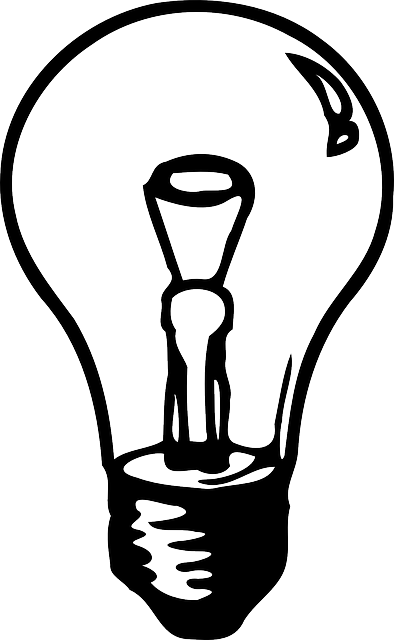
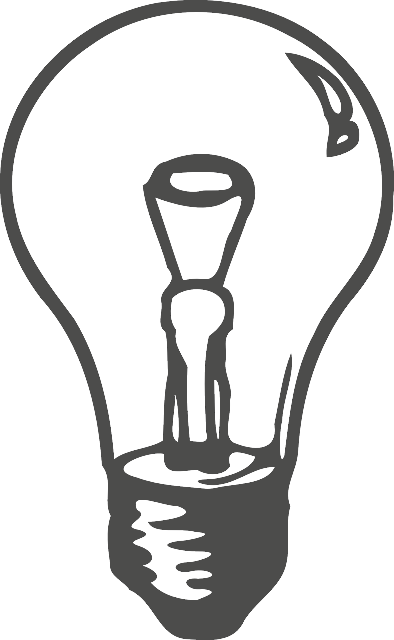
buttons, showFullSize, showNormal

Changed region(s): [[0.0, 0.0, 1.0, 1.0]]

diff --git a/myImg.py b/myImg.py
@@ -7,6 +7,7 @@ import teste
 import os
 import glob
 import thumbnails
+import fullScreen
 
 class Ui_Form(QtGui.QMainWindow):
 
@@ -78,7 +79,7 @@ class Ui_Form(QtGui.QMainWindow):
 
 		# creating icons
 		lamp = QtGui.QIcon()
-		lamp.addPixmap(QtGui.QPixmap("icons/lamp1.png"), QtGui.QIcon.Normal, QtGui.QIcon.Off)
+		lamp.addPixmap(QtGui.QPixmap("icons/lamp.png"), QtGui.QIcon.Normal, QtGui.QIcon.Off)
 		next = QtGui.QIcon()
 		next.addPixmap(QtGui.QPixmap("icons/next.png"), QtGui.QIcon.Normal, QtGui.QIcon.Off)
 		previous = QtGui.QIcon()
@@ -87,6 +88,10 @@ class Ui_Form(QtGui.QMainWindow):
 		enlarge.addPixmap(QtGui.QPixmap("icons/enlarge.png"), QtGui.QIcon.Normal, QtGui.QIcon.Off)
 		resize = QtGui.QIcon()
 		resize.addPixmap(QtGui.QPixmap("icons/resize.png"), QtGui.QIcon.Normal, QtGui.QIcon.Off)
+		zOut = QtGui.QIcon()
+		zOut.addPixmap(QtGui.QPixmap("icons/zoom_out.png"), QtGui.QIcon.Normal, QtGui.QIcon.Off)
+		zIn = QtGui.QIcon()
+		zIn.addPixmap(QtGui.QPixmap("icons/zoom_in.png"), QtGui.QIcon.Normal, QtGui.QIcon.Off)
 		
 		# Lamp button
 		self.toolButton = QtGui.QToolButton(Form) 
@@ -114,12 +119,28 @@ class Ui_Form(QtGui.QMainWindow):
 		self.toolButton_4.setAutoRaise(True)
 		self.toolButton_4.setIcon(enlarge)
 		self.toolButton_4.setIconSize(QtCore.QSize(30,30))
+		QtCore.QObject.connect(self.toolButton_4, QtCore.SIGNAL("clicked()"), self.increase)
 
 		# Resize Button
 		self.toolButton_5 = QtGui.QToolButton(Form)
 		self.toolButton_5.setAutoRaise(True)
 		self.toolButton_5.setIcon(resize)
 		self.toolButton_5.setIconSize(QtCore.QSize(30,30))
+		QtCore.QObject.connect(self.toolButton_5, QtCore.SIGNAL("clicked()"), self.decrease)
+
+		# Zoom In Button
+		self.toolButton_6 = QtGui.QToolButton(Form)
+		self.toolButton_6.setAutoRaise(True)
+		self.toolButton_6.setIcon(zIn)
+		self.toolButton_6.setIconSize(QtCore.QSize(40,40))	
+		QtCore.QObject.connect(self.toolButton_6, QtCore.SIGNAL("clicked()"), self.zoomIn)	
+
+		# Zoom Out Button
+		self.toolButton_7 = QtGui.QToolButton(Form)
+		self.toolButton_7.setAutoRaise(True)
+		self.toolButton_7.setIcon(zOut)
+		self.toolButton_7.setIconSize(QtCore.QSize(40,40))		
+		QtCore.QObject.connect(self.toolButton_7, QtCore.SIGNAL("clicked()"), self.zoomOut)
 
 		# creating lineEdit
 		self.lineEdit = QtGui.QLineEdit(Form)
@@ -170,6 +191,8 @@ class Ui_Form(QtGui.QMainWindow):
 		self.horizontalLayout_2 = QtGui.QHBoxLayout()
 		self.horizontalLayout_2.addWidget(self.toolButton_4)
 		self.horizontalLayout_2.addWidget(self.toolButton_5)
+		self.horizontalLayout_2.addWidget(self.toolButton_6)
+		self.horizontalLayout_2.addWidget(self.toolButton_7)
 		self.horizontalLayout_2.addWidget(self.toolButton)
 		self.horizontalLayout_2.addItem(self.spacer)
 		self.horizontalLayout_2.addWidget(self.spinBox)
@@ -212,6 +235,11 @@ class Ui_Form(QtGui.QMainWindow):
 
 		self.setSpinBoxMaximum()
 
+	def increase(self):
+		self.showFullScreen()
+
+	def decrease(self):
+		self.showMaximized() 	
 
 	def itemChanged(self, curr, prev):
 		# print self.thumb.currentRow()
